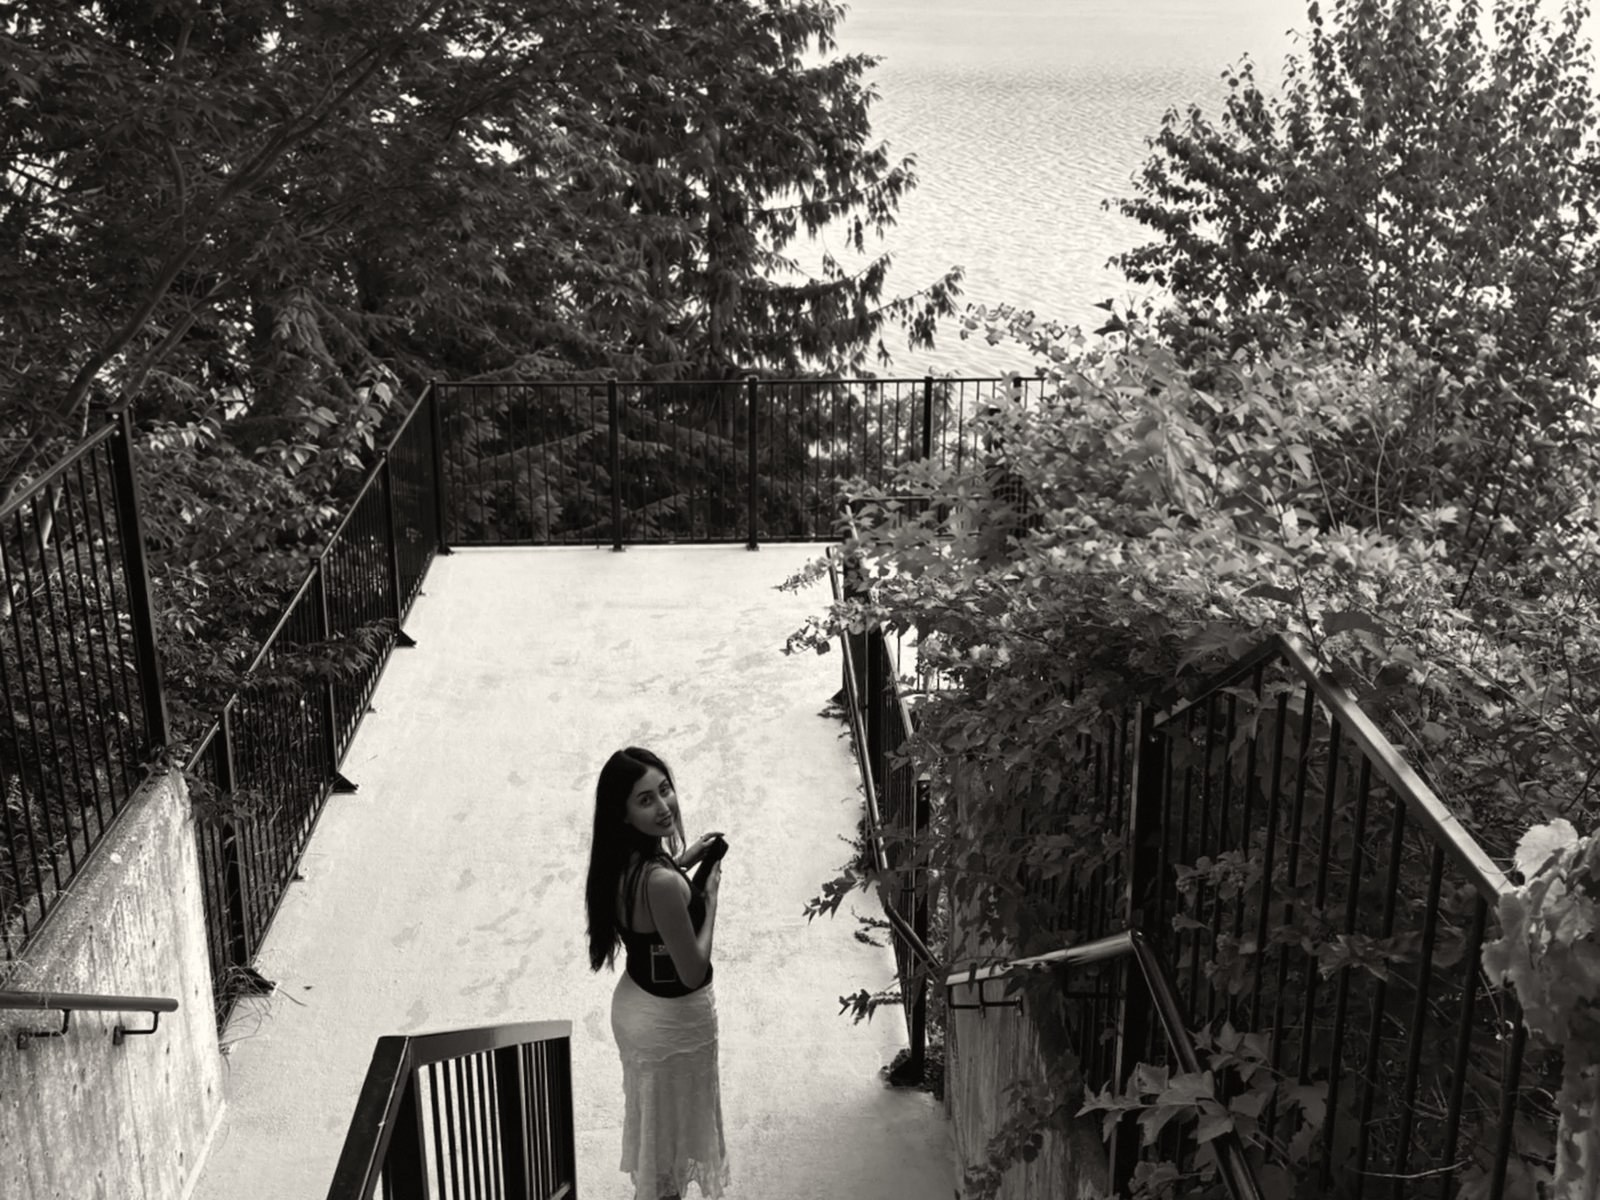
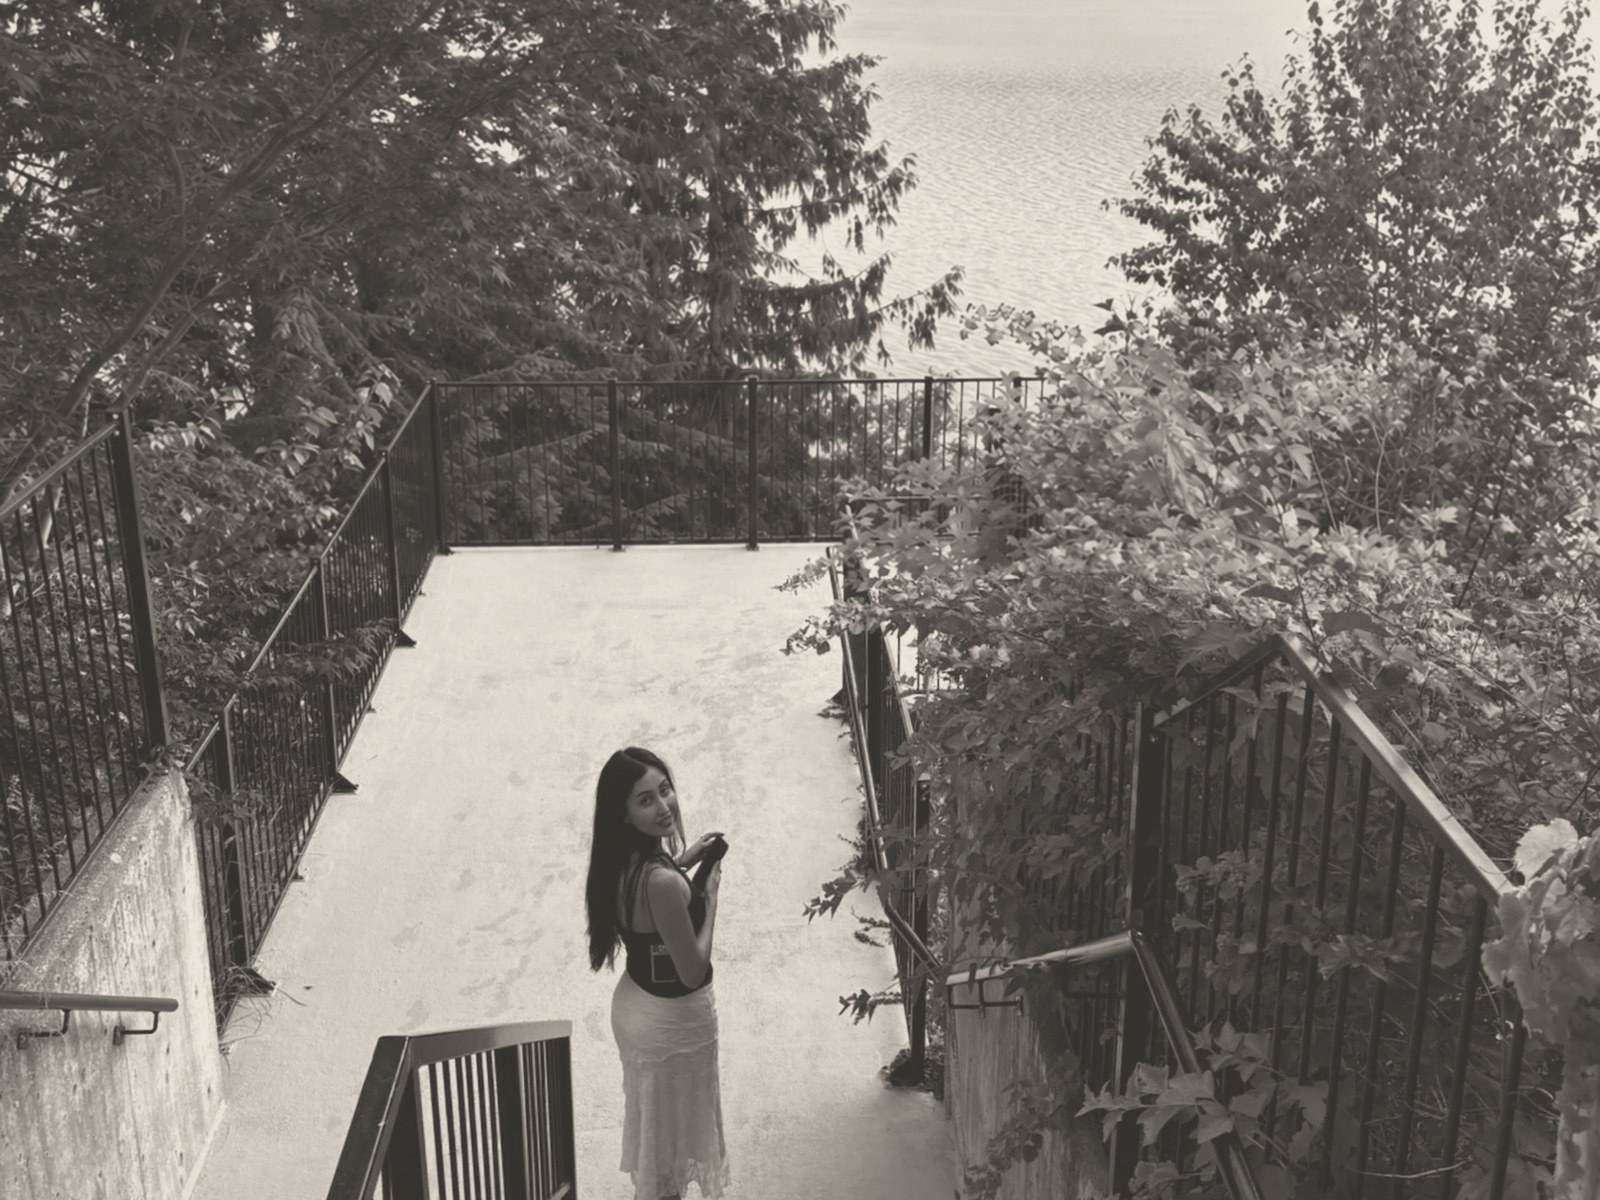
Fade hero photo, smaller Things I love heading, sheet on paper background, pressed poppy
Claude-Session: https://claude.ai/code/session_019cHY5kFv81n3dVZ9DcXyGk

diff --git a/assets/inner.css b/assets/inner.css
@@ -18,6 +18,7 @@ header a[aria-current]{background:none}
 .pt{position:relative;padding:21vh 6vw 9vh}
 .pt .folio{position:absolute;left:6vw;top:13vh}
 .pt h1{font:400 clamp(3.2rem,10vw,11.5rem)/.94 var(--serif);letter-spacing:-.028em}
+.pt h1.sm{font-size:clamp(2.8rem,7vw,8rem)}
 .pt h1.long{font-size:clamp(3rem,7.4vw,8.8rem)}
 .pt .stand{margin-top:5vh;max-width:30rem;font:italic 400 clamp(1.15rem,1.5vw,1.5rem)/1.38 var(--serif)}
 /* motion: lines rise, plates open, rows settle, script is written */
@@ -93,7 +94,7 @@ header a[aria-current]{background:none}
 .sh h2{font:400 clamp(2.4rem,5.6vw,6.4rem)/1 var(--serif);letter-spacing:-.025em}
 #people{--rw:min(267vw,calc(2.75*(100svh - 6rem)));margin:0 6vw;border-top:1px solid var(--line)}
 .vh{position:absolute;width:1px;height:1px;overflow:hidden;clip:rect(0 0 0 0);white-space:nowrap}
-.pstage{padding-top:9vh;margin:0 -6vw;position:relative;background:#fbfaf7;box-shadow:inset 0 16px 22px -18px rgba(40,28,12,.22),inset 0 -16px 22px -18px rgba(40,28,12,.18)}
+.pstage{padding-top:9vh;margin:0 -6vw;position:relative;background:var(--paper)}
 .slabel{position:absolute;right:6vw;top:5vh;display:flex;flex-direction:column;align-items:flex-end;gap:.3rem;color:var(--mu);z-index:1}.slabel .hw{font:400 clamp(1.5rem,2.2vw,2.3rem)/1 'Kristi',cursive;color:var(--ink);letter-spacing:0;text-transform:none;transform:rotate(-3deg)}
 .pstage .sh{margin:0 6vw;border-top:0;padding:5vh 0 3vh}.pstage .sh h2{font-size:clamp(2rem,3.9vw,4.3rem)}
 .csheet{padding:0 0 4vw;display:flex;flex-direction:column;overflow-x:auto;scrollbar-width:none}.csheet::-webkit-scrollbar{display:none}
@@ -144,7 +145,7 @@ html:not(.js) .chart .ln{stroke-dashoffset:0}html:not(.js) .chart circle{opacity
 @media (prefers-reduced-motion:reduce){.lb img.sw{animation:none}}
 @media (max-width:760px){
 header{position:absolute;color:inherit;mix-blend-mode:normal;padding:1.4rem 16px;flex-direction:column;gap:.6rem}header.cap{font-size:.66rem}header nav{gap:.95rem;flex-wrap:nowrap}
-.pt{padding:9rem 16px 3rem}.pt .folio{position:static;margin-bottom:1.4rem}.pt h1{font-size:15vw}.pt h1.long{font-size:12.5vw}
+.pt{padding:9rem 16px 3rem}.pt .folio{position:static;margin-bottom:1.4rem}.pt h1{font-size:15vw}.pt h1.long{font-size:12.5vw}.pt h1.sm{font-size:11vw}
 .toc{margin:0 16px 5rem}.toc a{grid-template-columns:2.4rem 1fr}.toc .k{grid-column:2}
 .proj{margin:0 16px;padding:3.2rem 0 4rem;grid-template-columns:1fr}.proj .pm{margin-bottom:1.4rem;grid-column:1;grid-row:auto}.proj h2{grid-column:1;grid-row:auto;max-width:none}.proj .body{grid-column:1;margin-top:1.4rem}.proj .body+.body{margin-top:1.1rem}.proj .tr{grid-column:1}.proj .vid{grid-column:1;margin-top:2rem}
 .prail{margin:0 16px}.stage{position:static;height:auto;overflow:visible;margin:0}.track{position:static;height:auto;display:block;padding:0;transform:none!important}
@@ -160,8 +161,8 @@ header{position:absolute;color:inherit;mix-blend-mode:normal;padding:1.4rem 16px
 /* a sprig of lily of the valley beside the photo, drawn in as the page opens */
 .ranks .plates{position:sticky}
 
-.bloom{position:absolute;left:52%;top:-2.4rem;width:clamp(8.5rem,12.5vw,12.5rem);height:auto;transform:rotate(7deg);pointer-events:none;filter:drop-shadow(0 1px 1.5px rgba(70,50,30,.15))}
-.js .bloom{opacity:0;transform:rotate(7deg) translateY(.5rem)}
-.js .bloom.in{opacity:.92;transform:rotate(7deg);transition:opacity 1.2s var(--e),transform 1.4s var(--e)}
-@media (prefers-reduced-motion:reduce){.js .bloom{opacity:.92;transform:rotate(7deg)}}
-@media (max-width:760px){.ranks .plates{max-width:11rem;grid-template-columns:1fr}.bloom{left:58%;top:-1.8rem;width:7.6rem}}
+.bloom{position:absolute;left:55%;top:-3.4rem;width:clamp(7rem,9.5vw,9.5rem);height:auto;transform:rotate(5deg);pointer-events:none;filter:drop-shadow(0 1px 1.5px rgba(70,50,30,.15))}
+.js .bloom{opacity:0;transform:rotate(5deg) translateY(.5rem)}
+.js .bloom.in{opacity:.92;transform:rotate(5deg);transition:opacity 1.2s var(--e),transform 1.4s var(--e)}
+@media (prefers-reduced-motion:reduce){.js .bloom{opacity:.92;transform:rotate(5deg)}}
+@media (max-width:760px){.ranks .plates{max-width:11rem;grid-template-columns:1fr}.bloom{left:78%;top:-2.6rem;width:6.4rem}}

diff --git a/ranking.html b/ranking.html
@@ -23,7 +23,7 @@
   <p class="stand fd">In descending order.</p>
   </section>
   <section class="ranks">
-    <div class="plates" aria-hidden="true"><figure class="rv"><img src="assets/img/n/kid-3.jpg" alt="" loading="lazy"></figure><img class="bloom" src="assets/img/n/pressed.webp" alt="" width="400" height="654" loading="lazy"></div>
+    <div class="plates" aria-hidden="true"><figure class="rv"><img src="assets/img/n/kid-3.jpg" alt="" loading="lazy"></figure><img class="bloom" src="assets/img/n/pressed.webp" alt="" width="309" height="650" loading="lazy"></div>
     <ol class="rank-list stag">
       <li style="--i:1"><span class="pos type">01</span><span class="age">0 years old</span></li>
       <li style="--i:2"><span class="pos type">02</span><span class="age">4 years old</span></li>

diff --git a/things-i-love.html b/things-i-love.html
@@ -19,7 +19,7 @@
 <main id="top">
   <section class="pt">
   <p class="folio cap mu">03</p>
-  <h1 aria-label="Things I love"><span class="ln" aria-hidden="true"><span>Things I love</span></span></h1>
+  <h1 class="sm" aria-label="Things I love"><span class="ln" aria-hidden="true"><span>Things I love</span></span></h1>
   </section>
   <section class="loves">
     <div class="plates" aria-hidden="true"><figure class="rv"><img src="assets/img/n/out-6.jpg" alt="" loading="lazy"></figure><figure class="rv"><img src="assets/img/n/out-2.jpg" alt="" loading="lazy"></figure><figure class="rv"><img src="assets/img/n/out-5.jpg" alt="" loading="lazy"></figure></div>
